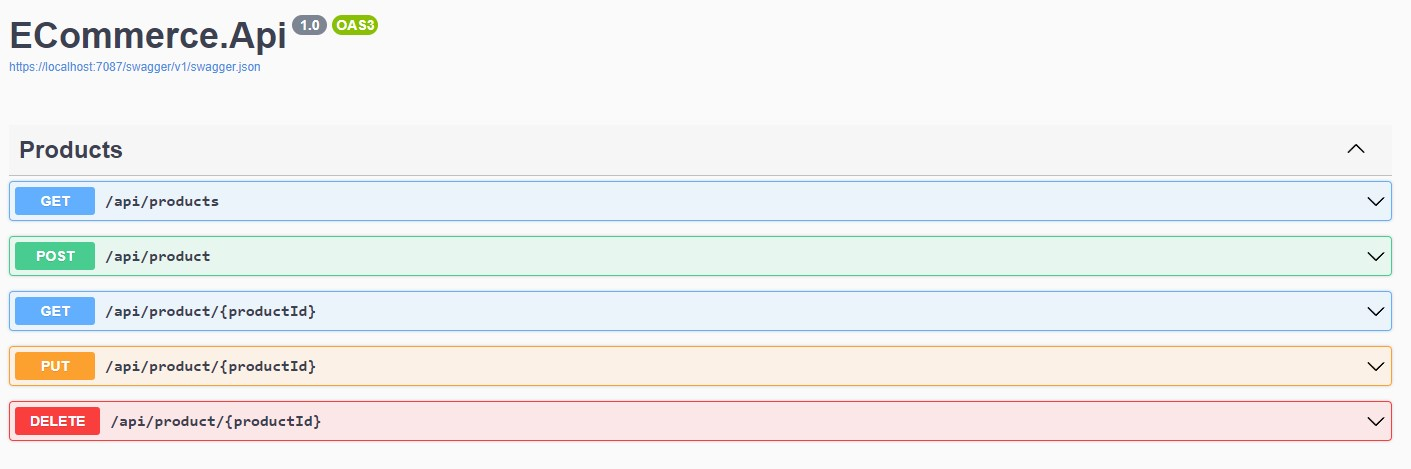
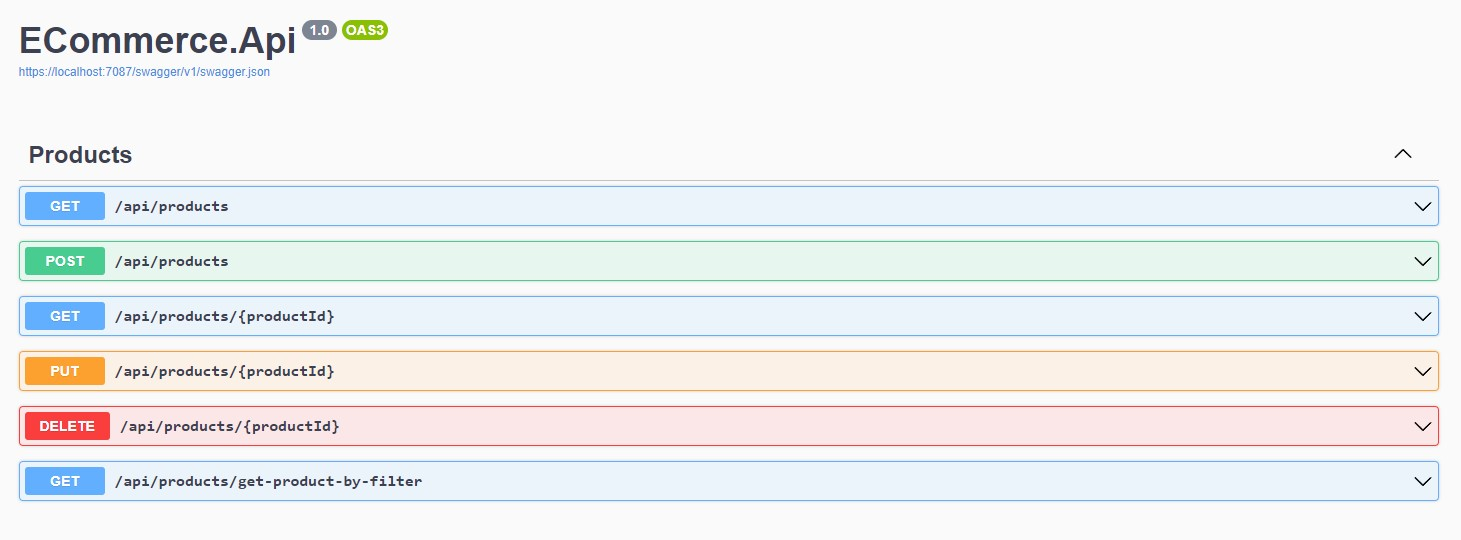
add filter method for mongoDB and update readme file

Changed region(s): [[0.0, 0.2687, 0.9979, 0.9552], [0.0, 0.0299, 0.2807, 0.1493]]

diff --git a/src/ECommerceMongoDBDotNet/ECommerce.Api/Controllers/ProductsController.cs b/src/ECommerceMongoDBDotNet/ECommerce.Api/Controllers/ProductsController.cs
@@ -62,9 +62,9 @@ namespace ECommerce.Api.Controllers
         /// <summary>
         /// Get Product By Filter
         /// </summary>
-        /// <param name="productId"></param>
+        /// <param name="query"></param>
         /// <returns></returns>
-        [HttpGet("/api/products", Name = nameof(GetProductByFilterAsync))]
+        [HttpGet("/api/products/get-product-by-filter")]
         public async Task<IActionResult> GetProductByFilterAsync([FromQuery] GetProductByFilterQuery query)
         {
             var product = await _productService.GetProductByFilterAsync(query.Id, query.ProductName, query.ProductTitle).ConfigureAwait(false);

diff --git a/src/ECommerceMongoDBDotNet/ECommerce.Api/Infra/repositories/CacheRepositories/MongoCacheRepositories/MongoCacheRepository.cs b/src/ECommerceMongoDBDotNet/ECommerce.Api/Infra/repositories/CacheRepositories/MongoCacheRepositories/MongoCacheRepository.cs
@@ -54,7 +54,7 @@ public class MongoCacheRepository : IMongoCacheRepository
     {
         var filters = new List<FilterDefinition<ProductViewModel>>();
 
-        FilterDefinition<ProductViewModel> filter = null;
+        FilterDefinition<ProductViewModel> filter;
 
         if (!string.IsNullOrEmpty(id))
         {

diff --git a/README.md b/README.md
@@ -23,46 +23,50 @@ builder.Services.Configure<ProductDatabaseSettings>(
     builder.Configuration.GetSection("ProductDatabaseSettings"));
 ```
 
-### you need wapper for use mongodb collection from service
+### you need Mongo Repository for use mongodb collection from service
 
 ```csharp
-public interface IMongoWrapper
+public interface IMongoCacheRepository
 {
-    Task<List<ProductModel>> GetAsync();
+    Task<List<ProductViewModel>> GetAsync();
 
-    Task<ProductModel?> GetAsync(string id);
+    Task<ProductViewModel> GetAsync(string id);
 
-    Task CreateAsync(ProductModel productViewModel);
+    Task<List<ProductViewModel>> GetProductByFilterAsync(string id, string productName, string productTitle);
 
-    Task UpdateAsync(string id, ProductModel productViewModel);
+    Task CreateAsync(ProductViewModel product);
+
+    Task CreateAsync(List<ProductViewModel> results);
+
+    Task CreateManyAsync(IEnumerable<ProductViewModel> productViewModels);
 
     Task RemoveAsync(string id);
-
 }
 ```
 
 ### you should be add dependency injection in Program.cs file :
 
 ```csharp
-#region [ Wrapper ]
+#region [ Cache  ]
 
-builder.Services.AddScoped<IMongoWrapper, MongoWrapper>();
+builder.Services.AddScoped<IMongoCacheRepository, MongoCacheRepository>();
 
-#endregion [ Wrapper ]
+#endregion [ Cache  ]
 ```
 
-### for use collections you should add this code in implementation wrapper
+### for use collections you should add this code in implementation Cache Repository
 
 ```csharp
     #region Fields
 
     private readonly IMongoCollection<ProductModel> _ProductsCollection;
+    private readonly FilterDefinitionBuilder<ProductViewModel> _filter;
 
     #endregion Fields
 
     #region Ctor
 
-    public MongoWrapper(IOptions<ProductDatabaseSettings> settings)
+    public MongoCacheRepository(IOptions<ProductDatabaseSettings> settings)
     {
         var mongoClient = new MongoClient(
       settings.Value.ConnectionString);
@@ -70,8 +74,10 @@ builder.Services.AddScoped<IMongoWrapper, MongoWrapper>();
         var mongoDatabase = mongoClient.GetDatabase(
             settings.Value.DatabaseName);
 
-        _ProductsCollection = mongoDatabase.GetCollection<ProductModel>(
+        _ProductsCollection = mongoDatabase.GetCollection<ProductViewModel>(
             settings.Value.ProductsCollectionName);
+
+        _filter = Builders<ProductViewModel>.Filter;
     }
 
     #endregion Ctor
@@ -81,20 +87,54 @@ builder.Services.AddScoped<IMongoWrapper, MongoWrapper>();
 ### now you can use collection 
 
 ```csharp
-    public async Task CreateAsync(ProductModel productViewModel)
+    public async Task CreateAsync(ProductViewModel productViewModel)
         => await _ProductsCollection.InsertOneAsync(productViewModel);
 
-    public async Task<List<ProductModel>> GetAsync()
+    public async Task CreateAsync(List<ProductViewModel> results)
+           => await _ProductsCollection.InsertManyAsync((IEnumerable<ProductViewModel>)results);
+
+    public async Task CreateManyAsync(IEnumerable<ProductViewModel> productViewModels)
+        => await _ProductsCollection.InsertManyAsync(productViewModels);
+
+    public async Task<List<ProductViewModel>> GetAsync()
         => await _ProductsCollection.Find(_ => true).ToListAsync();
 
-    public async Task<ProductModel?> GetAsync(string id)
-        => await _ProductsCollection.Find(x => x.ProductId == id).FirstOrDefaultAsync();
+    public async Task<ProductViewModel?> GetAsync(string id)
+        => await _ProductsCollection.Find(x => x.Id == id.ToString()).FirstOrDefaultAsync();
+
+    public async Task<List<ProductViewModel>> GetProductByFilterAsync(string id, string productName, string productTitle)
+    {
+        var filters = new List<FilterDefinition<ProductViewModel>>();
+
+        FilterDefinition<ProductViewModel> filter;
+
+        if (!string.IsNullOrEmpty(id))
+        {
+            filters.Add(_filter.Eq(f => f.Id, id));
+        }
+
+        if (!string.IsNullOrEmpty(productName))
+        {
+            filters.Add(_filter.Eq(f => f.ProductName, productName));
+        }
+
+        if (!string.IsNullOrEmpty(productTitle))
+        {
+            filters.Add(_filter.Eq(f => f.ProductTitle, productTitle));
+        }
+
+        filter = _filter.And(filters);
+
+        var find = this._ProductsCollection
+            .Find(filter);
+
+        var result = await find.ToListAsync();
+
+        return result.ConvertAll<ProductViewModel>(c => c);
+    }
 
     public async Task RemoveAsync(string id)
-        => await _ProductsCollection.DeleteOneAsync(id);
-
-    public Task UpdateAsync(string id, ProductModel productViewModel)
-        => _ProductsCollection.ReplaceOneAsync(p => p.ProductId == id, productViewModel);
+        => await _ProductsCollection.FindOneAndDeleteAsync(p => p.Id == id);
 ```
 
 ### images : 
